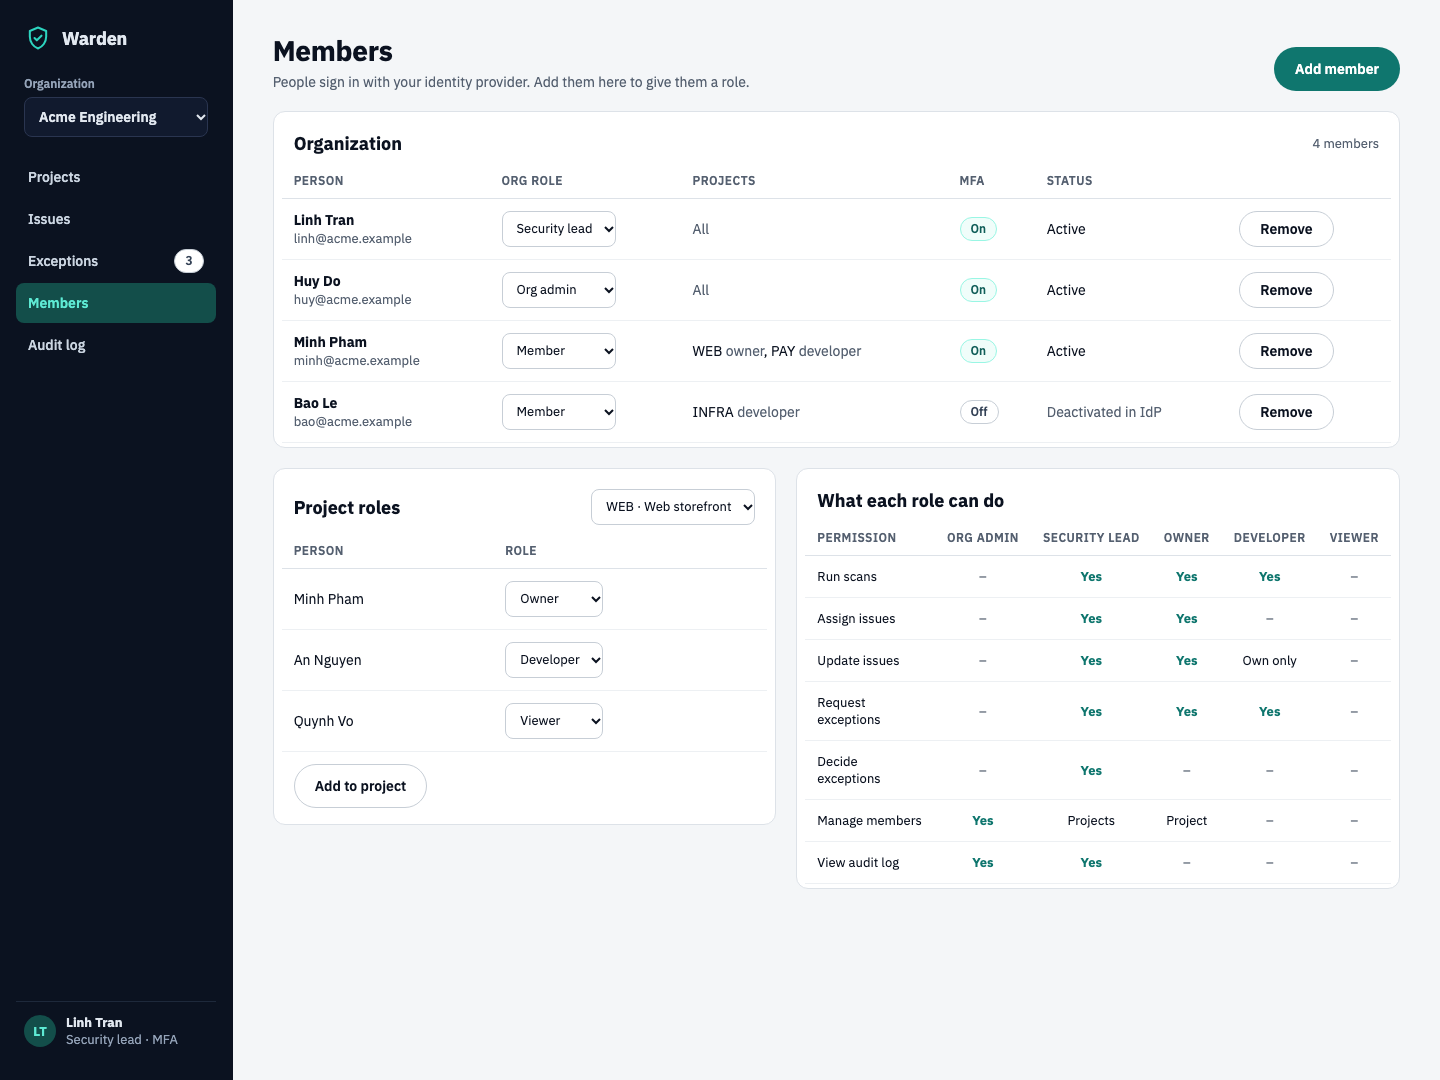
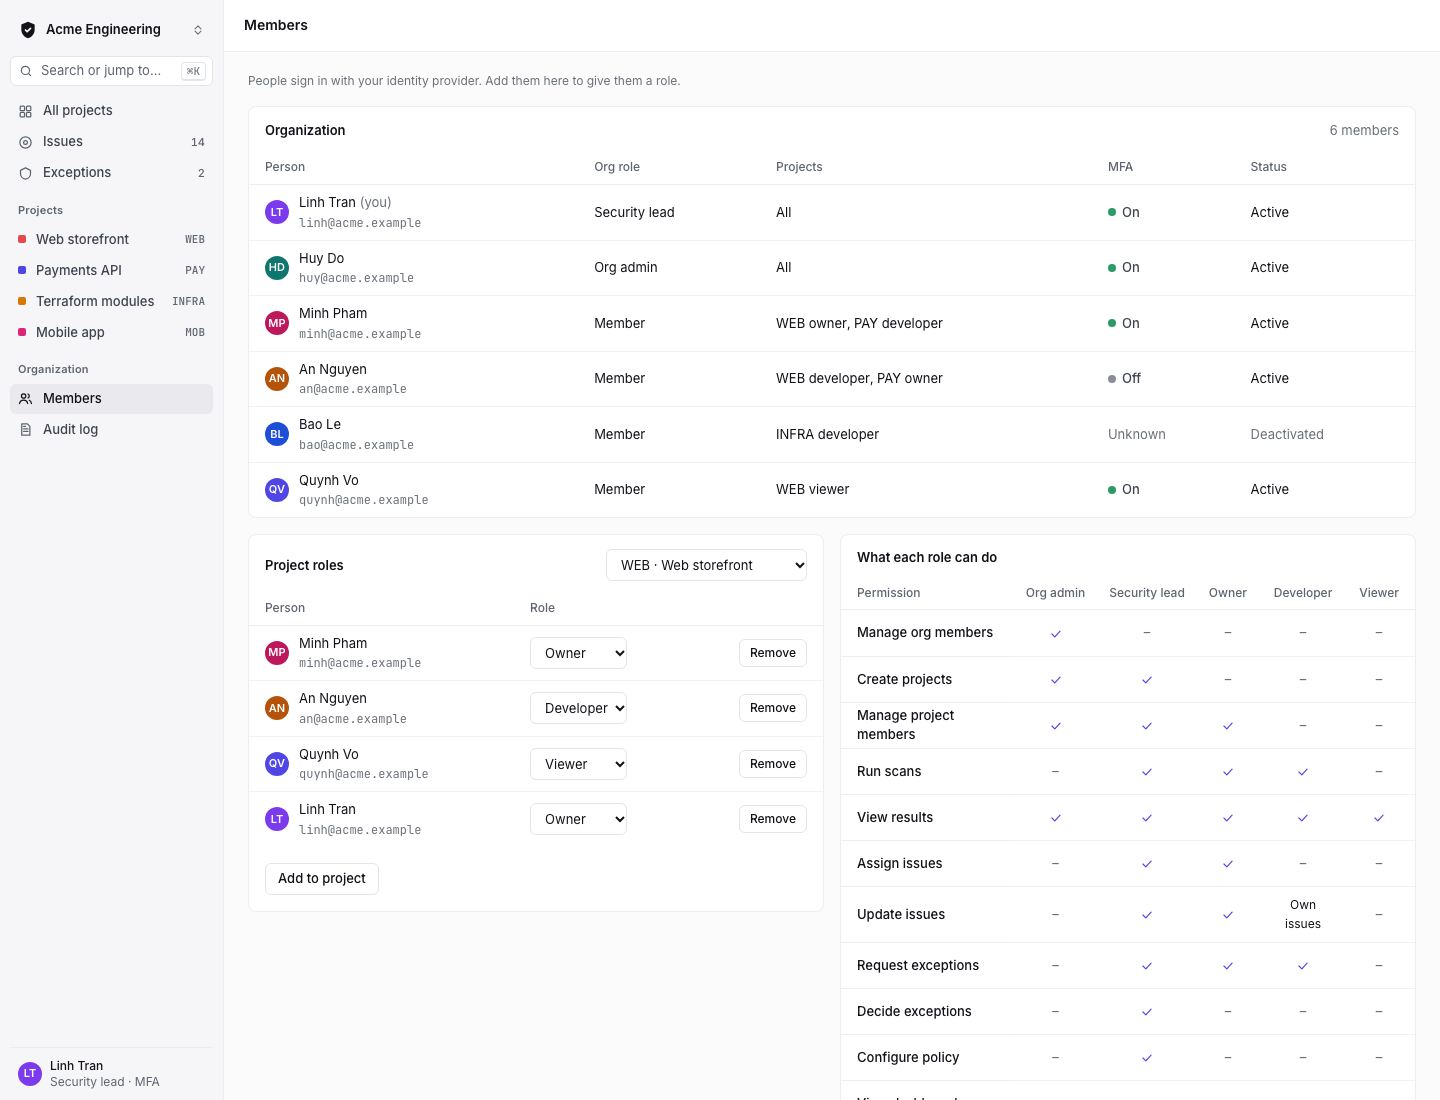
Document the redesigned UI: visual system, issue triage, app screenshots
DESIGN.md: new visual system (tokens.css), an "Issue triage" section
(saved views, filter chips, grouping, split view, keyboard shortcuts),
phone layout updates, and screenshots of the running app (mock data)
replacing the old wireframes. CHANGELOG lists the redesign.

diff --git a/frontend/DESIGN.md b/frontend/DESIGN.md
@@ -1,9 +1,10 @@
 # Warden web UI: design spec (v0.1)
 
 This is the target for the first usable release of the web UI: a team uploads code, sees
-issues, and works them to closed. The screens below are wireframes. Copy, names and numbers in
-them are examples. The wireframes live on a design canvas that only maintainers can open;
-this file is the source of truth for contributors.
+issues, and works them to closed. The images below are screenshots of the app running on its
+mock data (`npm run dev:mock`), so names and numbers are examples. Earlier wireframes and the
+design concepts live on a canvas that only maintainers can open; this file is the source of
+truth for contributors.
 
 ## Flows
 
@@ -30,31 +31,30 @@ enforces them anyway.
 |---|---|---|---|
 | 1 | Projects | everyone | Org summary (open issues, Critical + High, past SLA, exceptions to review); a card per project with open issues by severity, your role, the last scan and the number past SLA; an empty state for a project with no scan |
 | 2 | Upload & scans (project) | owner, developer, security lead | Drop zone with the real limits (200 MB zipped, 1 GB unpacked, 100,000 files); scanner checkboxes (project defaults); live progress per scanner (queued, running, succeeded, failed, timeout); scan history with new / fixed / reopened counts, *partial* (a scanner failed) and *rejected* (archive refused, with the reason) |
-| 3 | Issue list | everyone with access | Search (title, rule, file, `WEB-41`); filters for project, status (default: active), assignee, scanner, severity chips with counts, "past SLA only"; bulk assign; sorted by due date |
-| 4 | Issue detail | everyone with access | Severity, status, SLA due date; location with the masked snippet; how to fix; comments; details (assignee, rule, CWE/CVE, package and fixed version, first and last scan seen, number of scans it appeared in); workflow steps; history from `issue_event`. Actions: start progress, reassign, request exception |
+| 3 | Issue list | everyone with access | Saved views (Active, Assigned to me, Past SLA, Secrets); search (title, rule, file, `WEB-41`); filter chips for severity, status, project, assignee, scanner, past SLA; grouped by severity; bulk assign; sorted by due date. See "Issue triage" |
+| 4 | Issue detail | everyone with access | Opens beside the list on wide screens, as a page otherwise. Severity, status, SLA due date; status stepper; location with the masked snippet; what was found; how to fix; comments; details (assignee, rule, CWE/CVE, package and fixed version, first and last scan seen, number of scans it appeared in); activity from `issue_event`. Actions: start progress, reassign, request exception |
 | 5 | Exceptions | security lead decides; others see their own | Tabs: pending, approved, rejected, expiring soon. A queue on the left and a review panel on the right: reason, "accepted until" (≤ 180 days), decision note (required to reject), approve or reject |
 | 6 | Members & roles | org admin, security lead, project owner | Org members with org role, projects, MFA, status; project roles per project; the permission matrix, read-only, generated from `rbac.Matrix` |
 | 7 | Audit log | org admin, security lead | Filters for action, actor and date range; one row per entry (time, actor, action, target, IP) that expands to show the entry's `data`; a note that the log is append-only and hash-chained |
 
 Members without `view_audit_log` don't see "Audit log" in the navigation.
-States, the upload flow, dialogs and the phone layout are specified below the wireframes.
+States, the upload flow, dialogs and the phone layout are specified below the screenshots.
 
-## Wireframes
+## Screens in the app
 
-Desktop width (1440 px) unless marked as phone (390 px). Names, numbers and files are
-examples. Sheets 10 and 11 show the content area only.
+Desktop width (1440 px) unless marked as phone (390 px).
 
 ### 1. Projects
-![Projects: org summary and project cards](design/01-projects.png)
+![Projects: stat strip and compact project cards](design/01-projects.png)
 
 ### 2. Upload & scans
-![Upload and scans: drop zone, live scanner progress, scan history](design/02-upload-and-scans.png)
+![Project Scans tab: drop zone, scanner choice, scan progress, scan history](design/02-upload-and-scans.png)
 
 ### 3. Issue list
-![Issue list: search, filters, severity chips, results table](design/03-issue-list.png)
+![Issue list: saved views, filter chips, issues grouped by severity, shortcut footer](design/03-issue-list.png)
 
-### 4. Issue detail
-![Issue detail: masked secret, how to fix, comments, details, workflow, history](design/04-issue-detail.png)
+### 4. Issue triage (split view)
+![An issue open beside the list: stepper, masked snippet, how to fix, comments](design/04-issue-triage.png)
 
 ### 5. Exceptions
 ![Exceptions: pending queue and review panel](design/05-exceptions.png)
@@ -63,22 +63,47 @@ examples. Sheets 10 and 11 show the content area only.
 ![Members and roles: org members, project roles, permission matrix](design/06-members-and-roles.png)
 
 ### 7. Audit log
-![Audit log: append-only note, filters, entries with one expanded](design/07-audit-log.png)
+![Audit log: append-only note, filters, entries](design/07-audit-log.png)
 
-### 8. Upload flow states
-![Upload flow: checking the file, uploading, upload failed, hourly limit, archive rejected, scan cancelled, scan history with every status](design/08-upload-states.png)
+### 8. Command palette (⌘K)
+![Command palette: jump to an issue, a project or a page](design/08-command-palette.png)
 
-### 9. Dialogs
-![Dialogs: new project, assign, request exception, add org member](design/09-dialogs.png)
+### 9. Assign dialog
+![Assign dialog: searchable list of project members](design/09-assign-dialog.png)
 
-### 10. Loading and empty states
-![Loading skeletons for a list and a detail page; empty states](design/10-states-loading-empty.png)
+### 10. Empty state
+![No issues match the filters](design/10-empty-state.png)
 
-### 11. Errors and messages
-![Load error, sign-in error, 403 and 404 pages, toasts, version conflict, form and conflict errors](design/11-states-errors-messages.png)
+### 11. Phone (390 px)
+<img src="design/11-phone-issue-list.png" alt="Phone: issue list as stacked rows" width="260"> <img src="design/12-phone-issue.png" alt="Phone: issue page with vertical stepper" width="260"> <img src="design/13-phone-menu.png" alt="Phone: navigation drawer open" width="260">
 
-### 12. Phone (390 px)
-<img src="design/12-mobile-issue-list.png" alt="Phone: issue list as stacked rows" width="260"> <img src="design/13-mobile-issue-detail.png" alt="Phone: issue detail with sections stacked" width="260"> <img src="design/14-mobile-menu.png" alt="Phone: navigation menu open" width="260">
+## Issue triage
+
+- **Saved views** in the header are presets of the URL filters: Active (default), Assigned to me
+  (`assignee=me`), Past SLA (`past_sla=true`), Secrets (`tool=gitleaks`). Search, sort and project
+  are kept when switching.
+- **Filter chips** read as sentences ("Severity is Critical, High"), each with its own remove
+  button; "+ Filter" adds severity, status, project, assignee, scanner or past SLA. "Group by"
+  (severity or none, remembered per browser) and "Sort" sit on the right.
+- **Groups** are collapsible with counts. Medium, Low and Info start collapsed when they hold 10
+  or more issues, unless the open issue is in them.
+- **Split view** from 1200 px: `/orgs/:org/issues/:id?<filters>` keeps the list on the left
+  (compact rows, the open issue marked with an indigo bar) and the issue on the right, with
+  previous/next/close controls and "n of m". Below 1200 px the issue is a page with a
+  "‹ Issues / KEY" link back to the filtered list. Only known filters are carried in links.
+- **Keyboard** (never while typing in a field or while a dialog is open):
+
+  | Key | Action |
+  |---|---|
+  | `J` / `K` | Next / previous issue (the open pane follows) |
+  | `Enter` | Open the selected issue |
+  | `Esc` | Close the pane, focus back on its row |
+  | `A` | Assign (bulk selection, else the open or selected issue, if allowed) |
+  | `X` | Add or remove the selected issue from the bulk selection |
+  | `/` | Focus the search box |
+  | `⌘K` / `Ctrl+K` | Command palette: jump to an issue by key or title, a project, or a page |
+
+  A footer bar shows these hints on the issue list.
 
 ## Audit log
 
@@ -192,7 +217,7 @@ Status labels: `pending_upload` Uploading, `queued` Queued, `running` Running ·
 
 ## Upload flow
 
-What the New scan card shows at each step (wireframe 8):
+What the New scan card shows at each step:
 
 1. **Choose a file.** The browser checks the extension (`.zip`), the name (≤ 255 characters, no
    `/` or `\`) and the size (≤ 200 MB) before anything is sent.
@@ -209,7 +234,7 @@ What the New scan card shows at each step (wireframe 8):
    (`expires_at`, 15 minutes); after that it cancels the old scan and starts again from step 3,
    without hashing again. The user doesn't see the difference.
 6. `POST …/start`. `UPLOAD_MISMATCH` shows the upload-failed card with its own message. On
-   success the right-hand card becomes "Scan in progress" (wireframe 2).
+   success the right-hand card becomes "Scan progress" (screenshot 2).
 7. **Finished:** Completed, Partial, Failed or Rejected. A rejected archive shows the full
    message from the table above, the code, "Nothing was scanned and no issues changed" and
    "Upload a new .zip". A cancelled scan shows who cancelled it, when, each scanner's state, and
@@ -221,7 +246,7 @@ scan is queued or running, and stop when it finishes.
 
 ## Dialogs
 
-All dialogs (wireframe 9): modal, `role="dialog"`, `aria-modal="true"`, `aria-labelledby` on the
+All dialogs (screenshot 9 shows one): modal, `role="dialog"`, `aria-modal="true"`, `aria-labelledby` on the
 title; focus starts on the first field, stays in the dialog, Esc and the 44 px close button
 cancel, and focus returns to the button that opened it. The primary button is on the right
 and says what it does ("Create project", not "OK"). While the request runs, the primary button
@@ -248,9 +273,9 @@ is disabled and shows a spinner; errors appear in the dialog, which stays open.
 
 ## Phone layout
 
-Below 800 px (wireframes 12–14):
+Below 800 px (screenshots in section 11):
 
-- The sidebar becomes a 56 px dark top bar: a 44 px menu button (`aria-expanded`,
+- The sidebar becomes a 56 px light top bar: a 44 px menu button (`aria-expanded`,
   `aria-controls`), the logo, the org name (truncated) and the user's initials. The menu opens
   as a 304 px drawer from the left over a dimmed page, with the org switcher, the navigation,
   the user and "Sign out". Esc, the close button or a tap outside closes it.
@@ -261,8 +286,8 @@ Below 800 px (wireframes 12–14):
   the sort select side by side, then the severity chips in one row that scrolls sideways. No
   checkboxes and no bulk assign on phones.
 - Issue detail: a 44 px "‹ Issues" back link; the actions under the title, primary full width
-  and the other two side by side; then the cards in one column in the desktop order (location,
-  how to fix, comments, details, workflow, history). The code snippet scrolls sideways inside
+  and the others side by side; then the sections in one column in the desktop order (status
+  stepper, shown vertically; where; what was found; how to fix; comments; details; activity). The code snippet scrolls sideways inside
   its block (`tabindex="0"` so keyboard users can scroll it).
 - Page padding is 16 px; every control stays at least 44 px tall.
 
@@ -281,42 +306,49 @@ Below 800 px (wireframes 12–14):
 
 ## Visual system
 
-Warden has its own look, not tied to any company brand.
+Quiet and light: neutral greys, one indigo accent, severity as small coloured marks next to
+their label. Tokens live in `frontend/src/styles/tokens.css`.
 
 | Token | Value | Use |
 |---|---|---|
-| Ink | `#0B1220` | Text; sidebar background; code block background |
-| Muted | `#556070` | Secondary text (≥ 4.5:1 on white) |
-| Ground | `#F4F6F8` | Page background |
-| Surface | `#FFFFFF` | Cards, tables |
-| Line | `#DDE2E8` / `#EDF0F3` | Borders / row dividers |
-| Accent | `#0F766E` (hover `#115E59`) | Primary buttons, links, progress, selected state |
-| Accent tint | `#F0FDFA` / `#99F6E4` | Selected chips, drop zone, success pills |
-| Sidebar active | `#134E4A` on `#5EEAD4` text | Current navigation item |
+| Ground | `#FBFBFC` | Page background |
+| Surface | `#FFFFFF` | Panels, tables, header bars |
+| Sidebar | `#F6F6F8` | Sidebar; active item `#E9E9EE` |
+| Hover | `#F3F4F6` / `#EEEFF2`; rows `#F8F8FA` | Hover backgrounds |
+| Lines | `#ECEDF0` dividers, `#F1F2F4` rows, `#E3E5E8` controls, `#D3D6DB` chips | Borders |
+| Ink | `#111318` | Text; primary button (white text, hover `#2A2D35`); code blocks |
+| Text 2 / muted / faint | `#3F4450` / `#5E6470` / `#6B7079` | Secondary text; faint is the lightest text colour and is never used on `#EEEFF2` or `#E9E9EE` |
+| Accent | `#4F46E5` (hover `#4338CA`) | Links, focus rings, selection, active tabs; tints `#F5F5FF` / `#E8E7FC` |
+| Danger | `#D1343A` | Overdue and past-SLA text |
 
-Severity, by the usual security-tool convention, also differing in lightness:
+Severity is a 8 px square (radius 2) beside its label, never colour alone:
 
-| Severity | Badge |
+| Severity | Mark |
 |---|---|
-| Critical | `#9F1239`, white text |
-| High | `#C2410C`, white text |
-| Medium | `#FEF3C7`, text `#92400E` |
-| Low | `#E2E8F0`, text `#334155` |
+| Critical | `#E5484D` |
+| High | `#F76B15` |
+| Medium | `#FFB224` |
+| Low | `#8B8D98` |
+| Info | `#C1C4CB` |
 
-"Past SLA" text and the highlighted secret line in a code snippet use the Critical color.
+Status is a small icon beside its label: open (grey ring), assigned (indigo half ring), in
+progress (indigo ring with a filled quarter), reopened (amber `#D97706` dashed ring), fixed
+(indigo check), verified (green `#2B9A66` check), false positive and risk accepted (grey
+slashed ring).
 
-- **Type:** IBM Plex Sans for text; IBM Plex Mono for code, rule IDs, file paths and issue keys
-  (`WEB-41`).
-- **Shapes:** cards have a 12 px radius and a 1 px border with no shadow; buttons and status
-  pills are fully rounded (pills).
-- **Sizes:** controls are at least 44 px tall, and dense table controls at least 36 px. Page
-  padding is 32 × 40 px and the gap between cards is 16–20 px.
-- **Layout:** a 232 px dark sidebar beside fluid content. Below 800 px the sidebar becomes a
-  top bar with a menu button and tables become stacked rows (see "Phone layout").
-- **Messages:** error banners and toasts `#FFF1F2` with text `#881337` and a `#9F1239` border;
-  warnings `#FFFBEB` with text `#78350F` and a `#F59E0B` border; skeleton bars `#E2E7EC`.
-- **Accessibility:** use real `<button>`, `<a>`, `<label>` and `<input>` elements;
-  `aria-label` on icon-only controls; text contrast of at least 4.5:1.
+- **Type:** Inter 400/500/600 for text, JetBrains Mono 400/500 for issue keys, paths, rules
+  and code; both self-hosted (`@fontsource`), no requests to font CDNs. Base size 13 px;
+  numbers are tabular.
+- **Shapes and sizes:** radius 6 for controls, 8 for panels, 2 for marks; 1 px borders and
+  almost no shadow. Controls 32 px, table rows 46 px, header bars 52 px, sidebar 224 px; on
+  phones every target is at least 44 px.
+- **Code blocks:** `#111318` background, `#E6E8EB` text, `#8B8D98` line numbers; the flagged
+  line `#4A1D22` with a `#E5484D` bar.
+- **Messages:** errors `#FEF2F2` with text `#9B1C1F`; warnings `#FFF8EB` with text `#7A2E0B`;
+  skeleton bars `#EDEEF1`.
+- **Accessibility:** real `<button>`, `<a>`, `<label>` and `<input>` elements; `aria-label`
+  on icon-only controls; visible indigo focus rings; every text/background pair at least
+  4.5:1; reduced motion respected.
 
 ## Open decisions
 
@@ -327,7 +359,7 @@ In the v0.1 API contract and being built (the UI can rely on them once they land
 - An "Expiring soon" tab for accepted risks (`?status=expiring`, 14 days).
 - Cancel a scan, including a running one.
 
-In the wireframes but not in the API contract:
+In the design but not in the API contract:
 
 - Export the issue list as CSV.
 - Show users who are deactivated in the identity provider. The API has only Warden's own

diff --git a/CHANGELOG.md b/CHANGELOG.md
@@ -27,12 +27,14 @@ All notable changes to Warden are listed here. The format follows
 - Web UI for all core screens: projects, upload and scans (in-browser SHA-256 with
   progress), issue list and detail, exceptions, members and roles, audit log; loading,
   empty and error states; phone layout.
+- Web UI redesign: a quiet light theme (Inter, indigo accent, severity marks), issue triage
+  with saved views, filter chips, issues grouped by severity and a split view (list beside
+  the open issue), keyboard shortcuts (J/K, Enter, Esc, A, X, /) and a ⌘K command palette.
 - The frontend's API types are checked against the backend's OpenAPI document in CI.
 - UI/UX design for the first usable release ([`frontend/DESIGN.md`](frontend/DESIGN.md)):
   - core flows (scan, triage, fix, exception, access)
   - wireframes for six screens, with images in `frontend/design/`: projects, upload and
     scans, issue list, issue detail, exceptions, members and roles
   - security rules for the UI
-  - a visual system of its own: dark sidebar, teal accent, severity colors that differ in
-    lightness, IBM Plex type
+  - a visual system of its own
   - audit log, states, upload flow, dialogs and phone layout (images 07–14)
